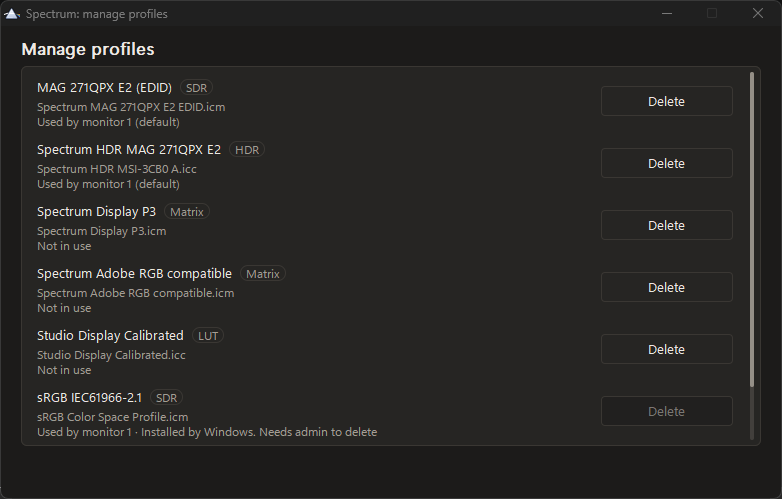
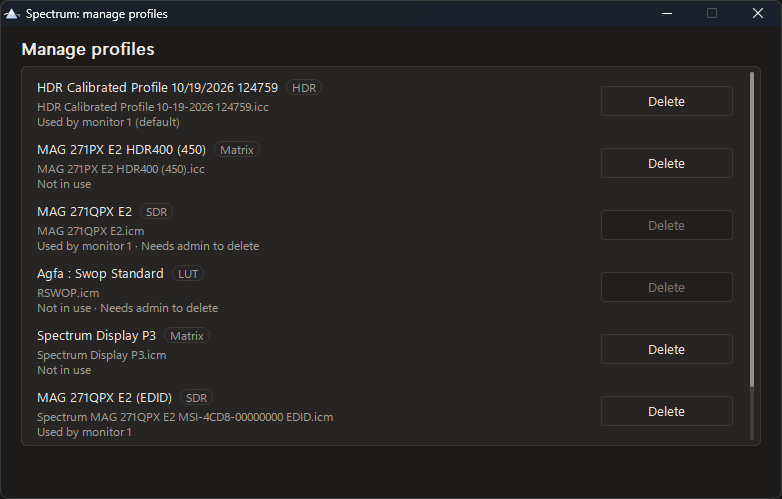
Profiles showcase: real profile names

diff --git a/src/debug.rs b/src/debug.rs
@@ -1091,68 +1091,11 @@ pub fn showcase_state() -> UiState {
     st
 }
 
-/// Made-up profile rows for the profiles window screenshots. Nothing here exists on disk.
+/// Profile rows for the profiles window screenshots: this machine's real color folder and associations, run
+/// through the same type, usage and deletable logic as the window. Read-only; the showcase window is a mock
+/// (`profiles_window::open_showcase`), so Delete only edits the list and never touches a file.
 pub fn showcase_profiles() -> Vec<app::ProfileRow> {
-    use app::{ProfileKind, ProfileRow};
-    use wcs::Undeletable;
-    let row = |file: &str, name: &str, kind, used: &str, deletable| ProfileRow {
-        file: file.into(),
-        name: name.into(),
-        kind,
-        used: used.into(),
-        deletable,
-    };
-    vec![
-        row(
-            "Spectrum MAG 271QPX E2 EDID.icm",
-            "MAG 271QPX E2 (EDID)",
-            ProfileKind::Sdr,
-            "Used by monitor 1 (default)",
-            Ok(()),
-        ),
-        row(
-            "Spectrum HDR MSI-3CB0 A.icc",
-            "Spectrum HDR MAG 271QPX E2",
-            ProfileKind::Hdr,
-            "Used by monitor 1 (default)",
-            Ok(()),
-        ),
-        row(
-            "Spectrum Display P3.icm",
-            "Spectrum Display P3",
-            ProfileKind::Matrix,
-            "Not in use",
-            Ok(()),
-        ),
-        row(
-            "Spectrum Adobe RGB compatible.icm",
-            "Spectrum Adobe RGB compatible",
-            ProfileKind::Matrix,
-            "Not in use",
-            Ok(()),
-        ),
-        row(
-            "Studio Display Calibrated.icc",
-            "Studio Display Calibrated",
-            ProfileKind::Lut,
-            "Not in use",
-            Ok(()),
-        ),
-        row(
-            wcs::SRGB_INBOX,
-            "sRGB IEC61966-2.1",
-            ProfileKind::Sdr,
-            "Used by monitor 1",
-            Err(Undeletable::Inbox),
-        ),
-        row(
-            "Spectrum Test Delete.icm",
-            "Spectrum Test Delete",
-            ProfileKind::Matrix,
-            "Not in use",
-            Ok(()),
-        ),
-    ]
+    app::list_profiles()
 }
 
 /// `open gamut-showcase`: the gamut window with the monitor's EDID-derived profile, sRGB and Display P3

diff --git a/.claude/skills/screenshots/SKILL.md b/.claude/skills/screenshots/SKILL.md
@@ -24,7 +24,7 @@ cargo build --release
 
 - Defaults: `-Theme both`, `-Scale 1,2`, no demo. A full run takes about a minute and owns the screen. It's polite to tell the user first.
 - It stops any running Spectrum (including the user's tray copy) at the start and end of each pass. The user restarts it afterwards.
-- Per theme and scale it starts `--debug-stage <theme>`, then `--tray --theme <theme>` (plus `--debug-scale <f>` for scales other than 1), then opens `gamut`, `profiles`, `traymenu` (1x pass only) and `main` through `--debug-open gamut-showcase|profiles-showcase|traymenu-showcase|main-hdr`. The profiles window shows made-up rows (`debug::showcase_profiles`), so the shots hold no real profile names.
+- Per theme and scale it starts `--debug-stage <theme>`, then `--tray --theme <theme>` (plus `--debug-scale <f>` for scales other than 1), then opens `gamut`, `profiles`, `traymenu` (1x pass only) and `main` through `--debug-open gamut-showcase|profiles-showcase|traymenu-showcase|main-hdr`. The profiles window shows this machine's real profile rows (`debug::showcase_profiles` is read-only and the window is a mock, so Delete never touches a file), so the shots hold real profile names.
 - Files, per theme `<t>`:
   - Scale 1: `main-<t>-1x.png`, `gamut-<t>-1x.png`, `profiles-<t>-1x.png`, `hdr-<t>-1x.png` (full window with the OS title bar), plus `traymenu-<t>.png` and `traymenu-<t>-1x.png`.
   - Other scales (the 2x pass): `main-<t>.png`, `gamut-<t>.png`, `profiles-<t>.png`, `hdr-<t>.png`, client area only, because the OS title bar does not scale. The site draws a CSS title strip over them.
